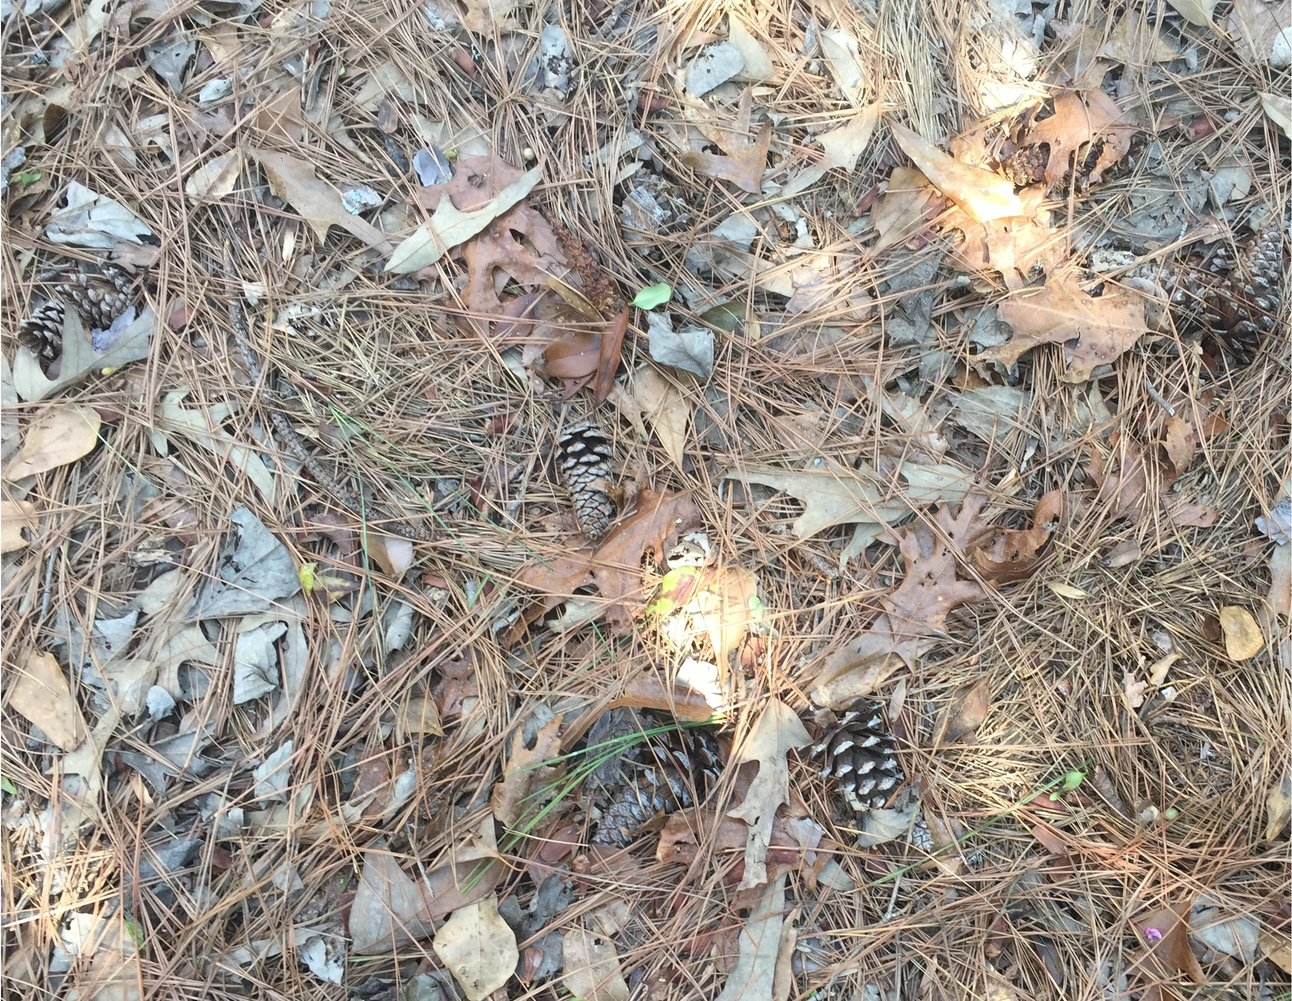
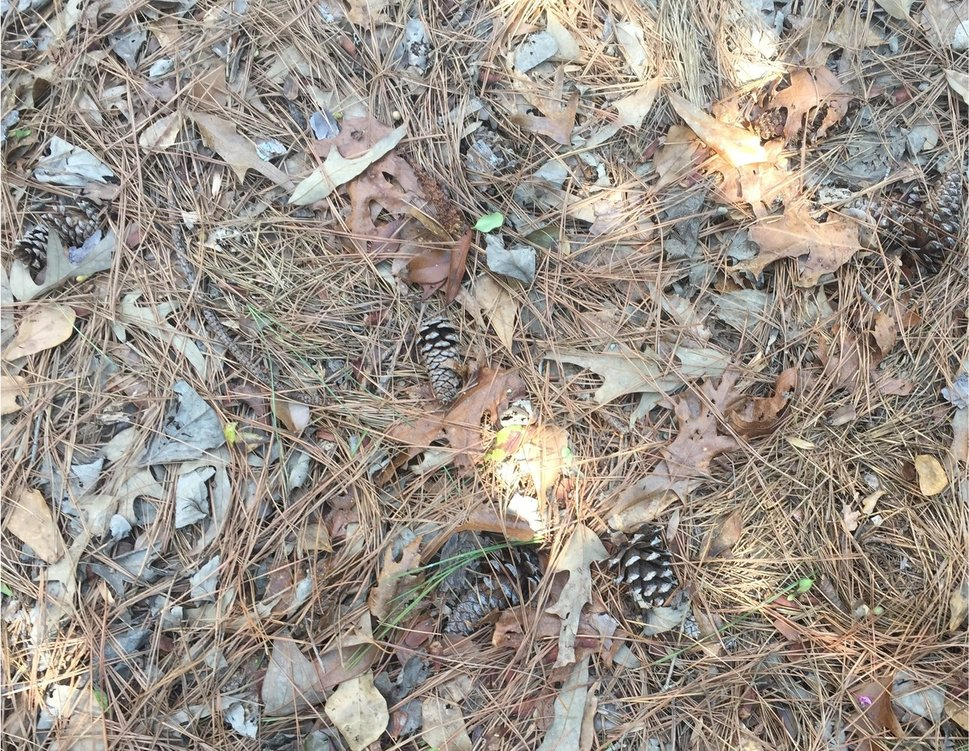
decrease pic size

diff --git a/css/style.css b/css/style.css
@@ -85,11 +85,6 @@ li {
     height: 175px;
 }
 
-#slogan {
-    text-align: center;
-    font-family: 'Oleo Script', cursive;
-}
-
 #farm {
     width: 100%;
 }
